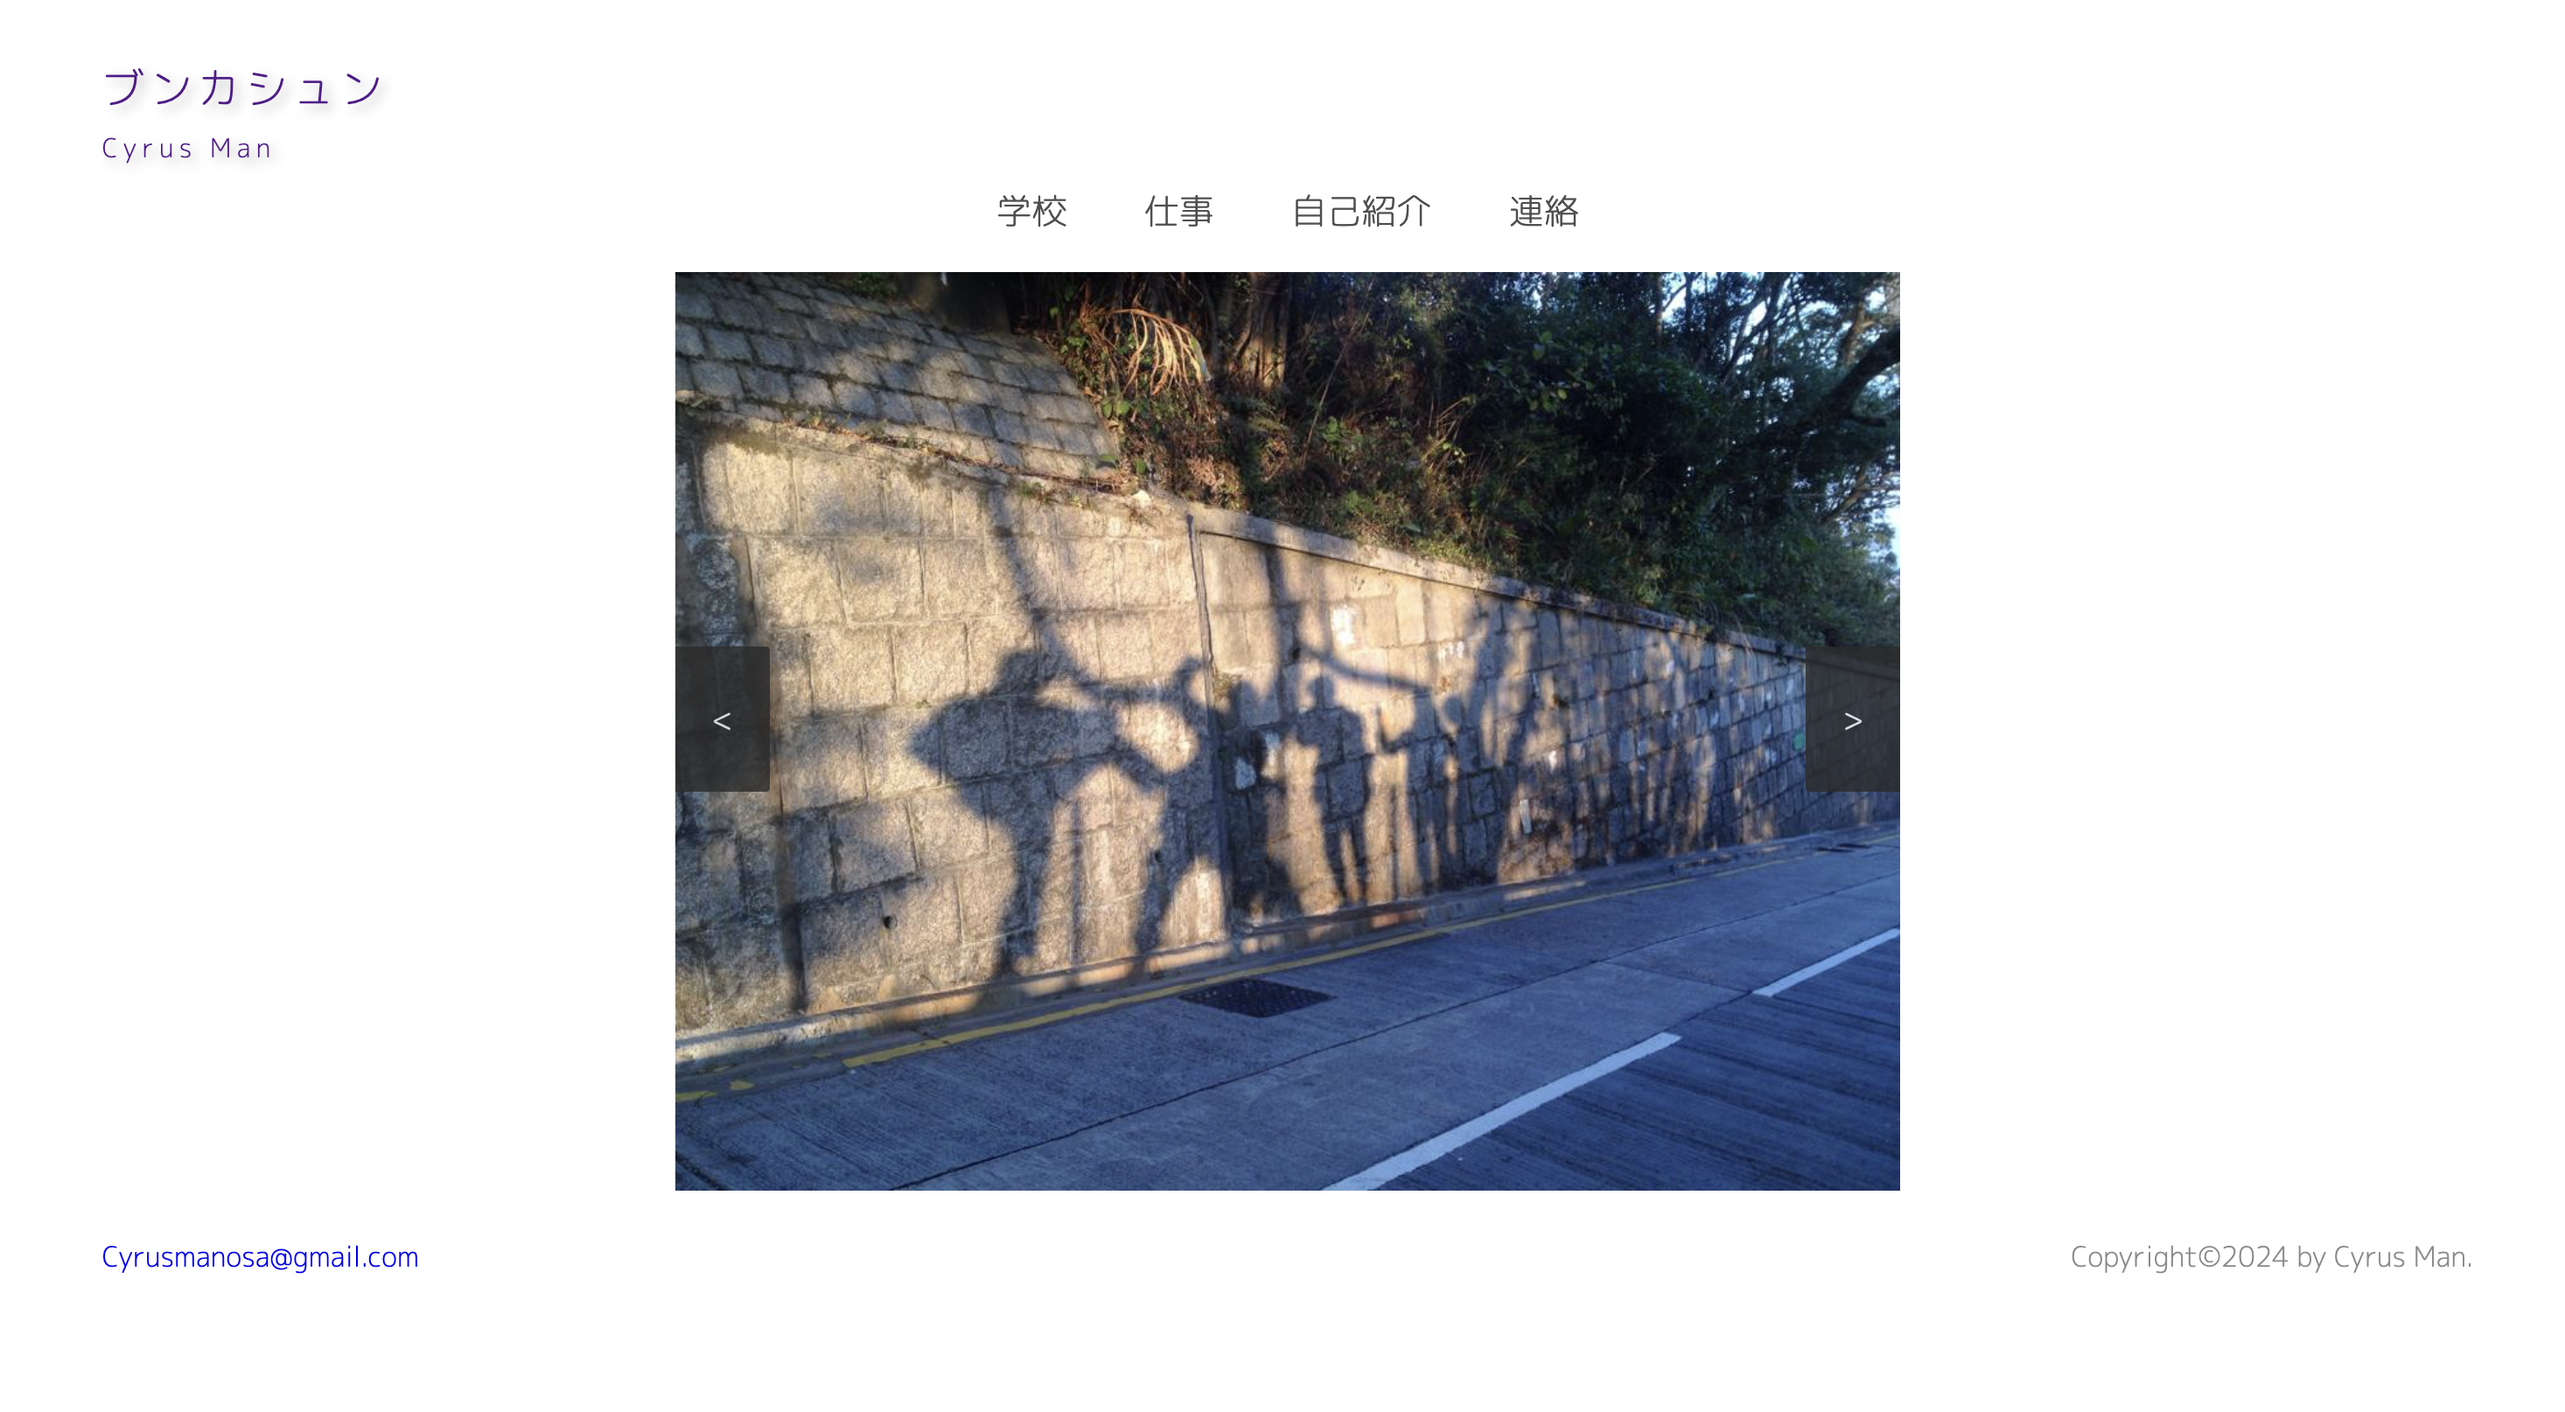
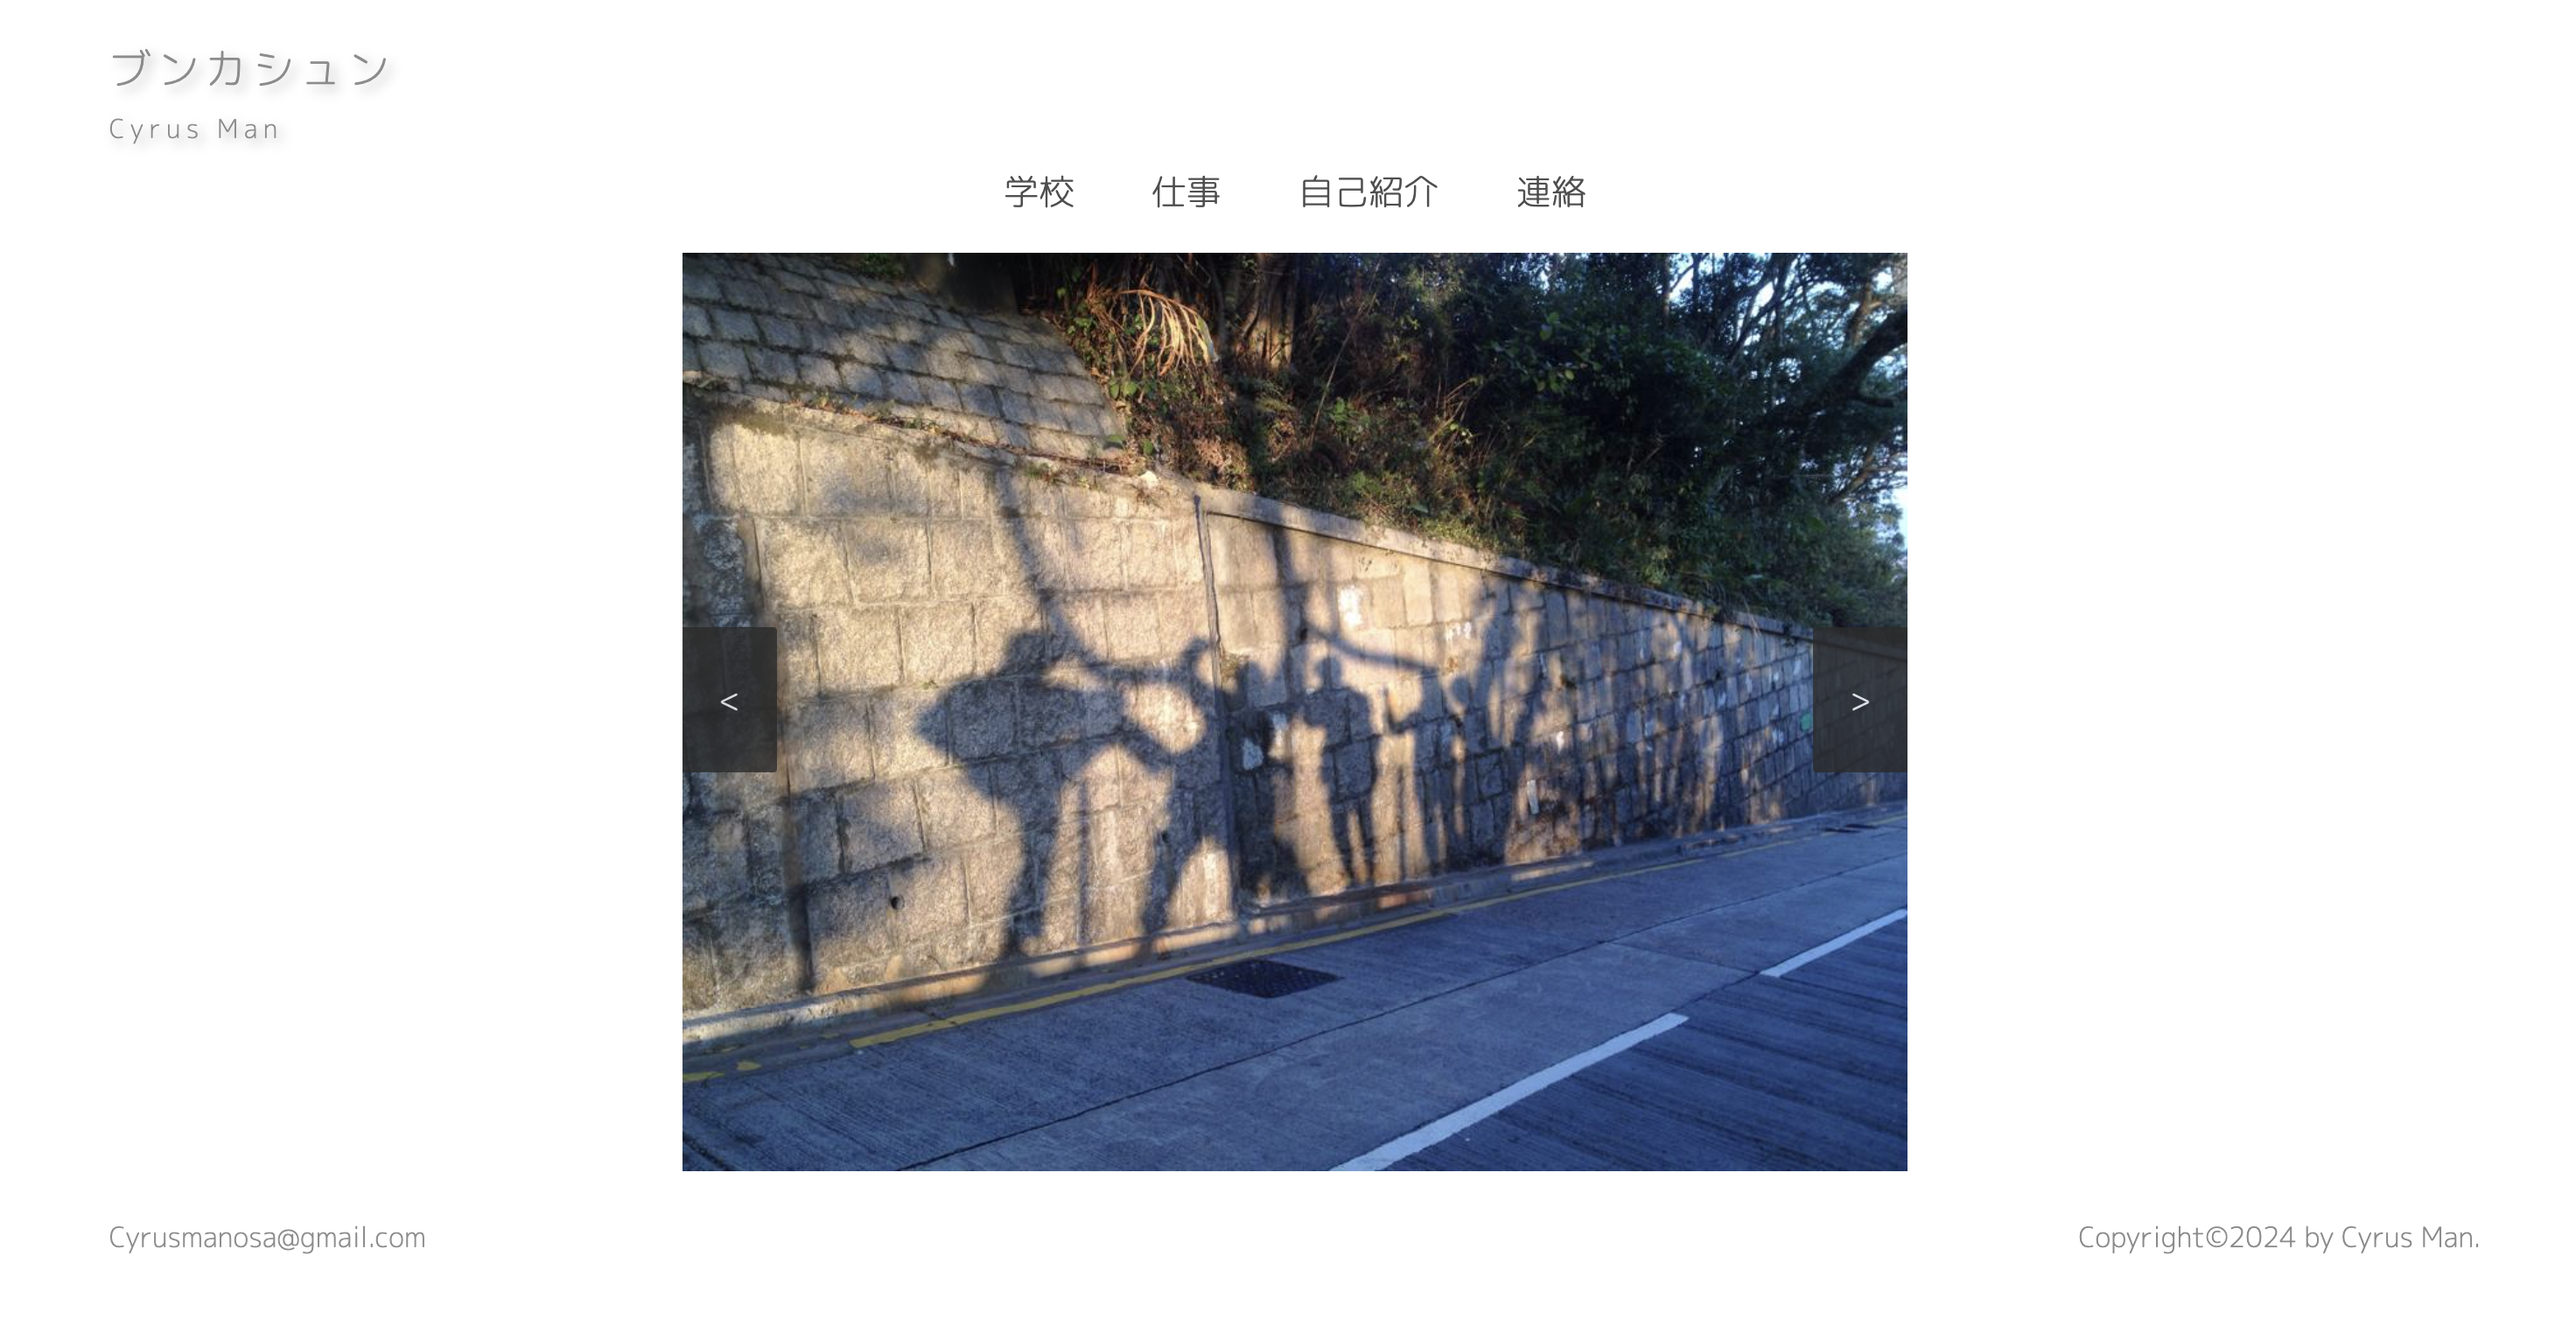
update 2024-05-23

diff --git a/public/CSS/It.css b/public/CSS/It.css
@@ -4,17 +4,39 @@
 
 /* 普通 */
 @media (min-width: 600px) {
+  .btn-git1 {
+    background-color: #4f4f4f;
+    border: none;
+    color: white;
+    padding: 15px;
+    text-align: center;
+    text-decoration: none;
+    border-radius: 15px;
+    display: inline-block;
+    font-size: 16px;
+    cursor: pointer;
+  }
+  .btn-git2 {
+    background-color: #4f4f4f;
+    border: none;
+    color: white;
+    padding: 15px;
+    text-align: center;
+    text-decoration: none;
+    border-radius: 15px;
+    display: inline-block;
+    font-size: 16px;
+    margin-top: 20px;
+    cursor: pointer;
+  }
+
   .item-title {
     padding: 0 20%;
   }
   .year1 {
     text-align: center;
-    margin-left: auto;
-    margin-right: auto;
     width: 800px;
-    height: 510px;
-    margin-top: 40px;
-    margin-bottom: 40px;
+    margin: 40px auto;
     border-radius: 30px;
     background-color: #ff83a8;
     padding: 20px;
@@ -28,6 +50,7 @@
       text-align: left;
       width: 600px;
       margin: 0 auto;
+      margin-bottom: 20px;
       font-size: 18px;
     }
   }

diff --git a/public/It.html b/public/It.html
@@ -57,6 +57,12 @@
       <p>
         一年生の時、授業から学んでもらったHTMLとCSSで、別のWebで作ったポートフォリオを参考して、自分のポートフォリオを作りました。
       </p>
+      <button
+        class="btn-git1"
+        onclick="location.href='https://github.com/cyrusmanosa/Portfolio2022'"
+      >
+        Github Repositories
+      </button>
     </div>
 
     <!-- year 2 -->
@@ -130,6 +136,13 @@
           </table>
         </div>
       </div>
+
+      <button
+        class="btn-git2"
+        onclick="location.href='https://github.com/cyrusmanosa/Apps'"
+      >
+        Github Repositories
+      </button>
     </div>
   </body>
 

diff --git a/public/CSS/HeaderAndFootage.css b/public/CSS/HeaderAndFootage.css
@@ -8,10 +8,27 @@
   list-style-type: none;
   animation: fadeInAnimation ease 1.3s;
   animation-iteration-count: 1;
-  /* box-sizing: content-box; */
   user-select: none;
 }
+.logo a:link,
+footer a:link {
+  color: #686868be;
+}
 
+.logo a:visited,
+footer a:visited {
+  color: #686868be;
+}
+
+.lgoo a:hover,
+footer a:hover {
+  color: #686868be;
+}
+
+.lgoo a:active,
+footer a:active {
+  color: #686868be;
+}
 /* head */
 
 ul {
